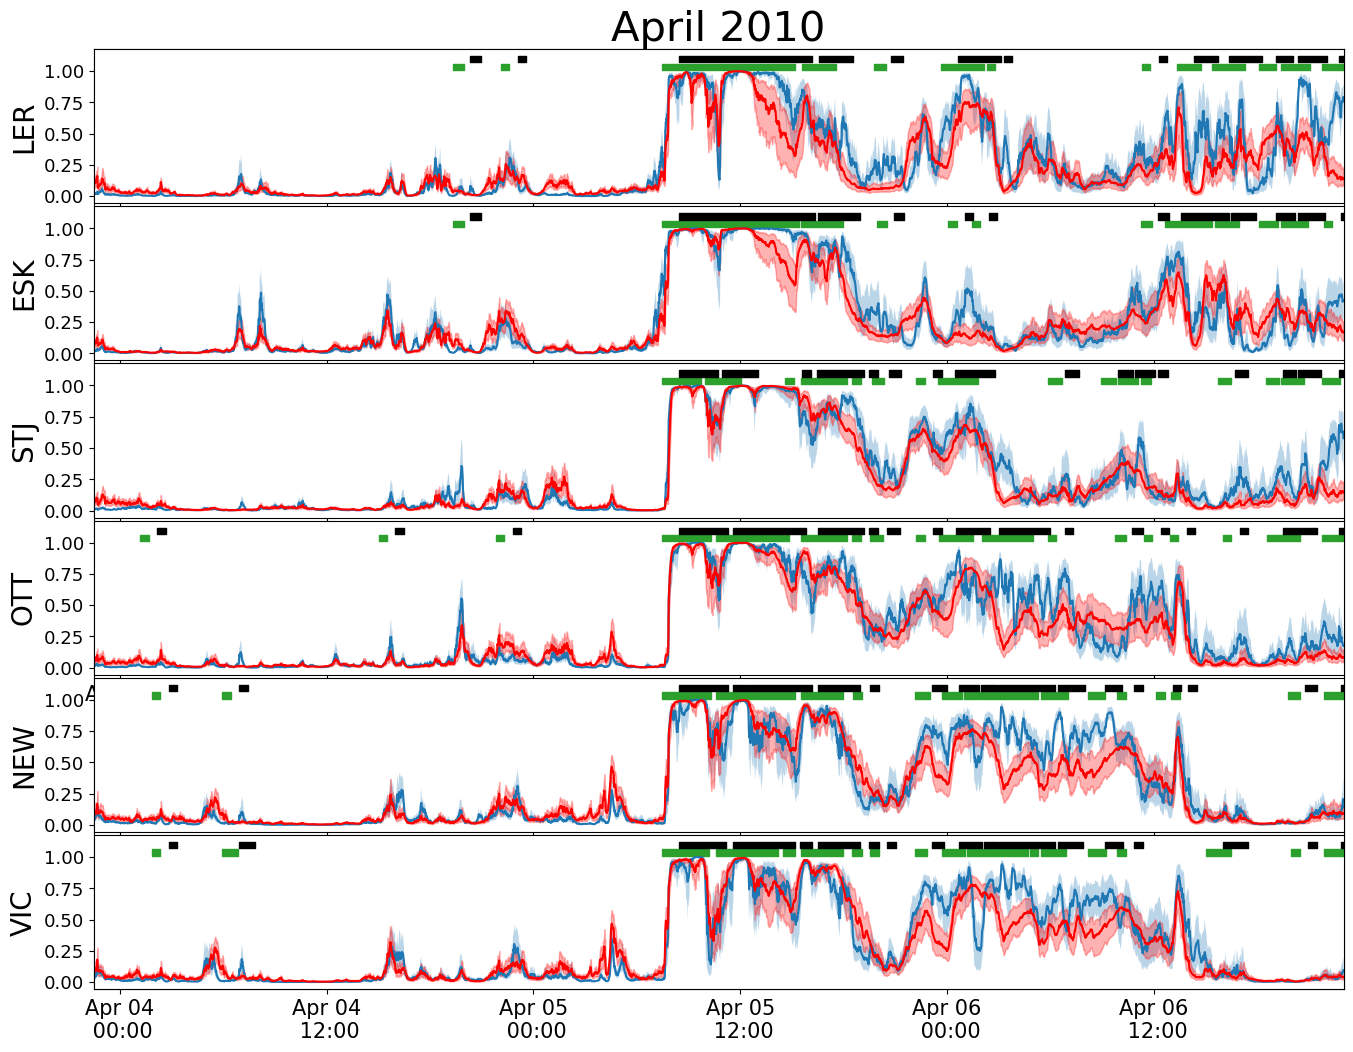
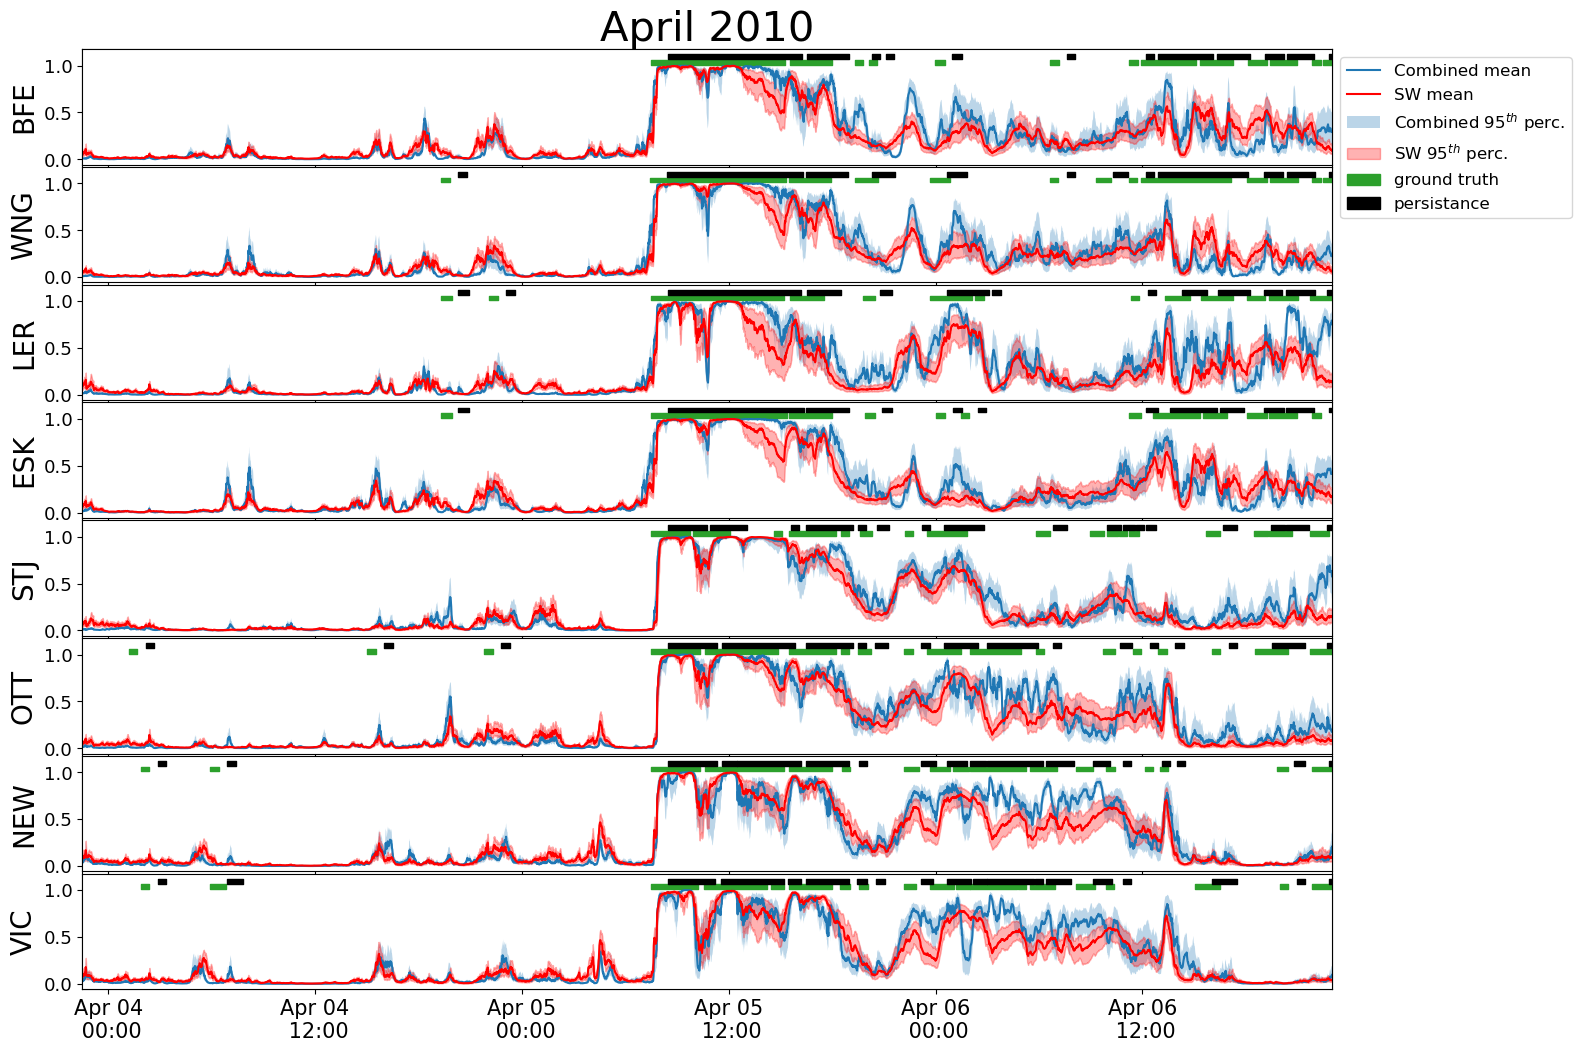
more changes to plots

diff --git a/plotting.py b/plotting.py
@@ -131,7 +131,7 @@ def plot_metrics(metrics_dict, stations, metrics=['HSS', 'AUC', 'RMSE'], sw=Fals
 		plt.subplots_adjust(bottom=0.1, top=0.9, left=0.1, right=0.9, hspace=0.03)			# trimming the whitespace in the subplots
 
 		# X = [5, 35, 65, 95, 125, 155, 185, 215]				# Used for labeling the x axis of the plots for each station.
-		X = [5, 35, 65, 95, 125, 155]				# Used for labeling the x axis of the plots for each station.
+		X = [5, 35, 65, 95, 125, 155, 185, 215]				# Used for labeling the x axis of the plots for each station.
 
 		'''subtracting and adding from the main X array above to
 			create slight speration in each of the storm metric results'''
@@ -245,7 +245,7 @@ def plot_total_metrics(metrics_dict, sw_metrics_dict, stations, metrics=['HSS', 
 	plt.subplots_adjust(bottom=0.1, top=0.9, left=0.1, right=0.9, hspace=0.03)			# trimming the whitespace in the subplots
 
 	# X = [5, 15, 25, 35, 45, 55, 65, 75]
-	X = [5, 10, 15, 20, 25, 30]
+	X = [5, 10, 15, 20, 25, 30, 35, 40]
 
 	x0 = [(num-1.5) for num in X]
 	x1 = [(num+1.5) for num in X]
@@ -469,8 +469,8 @@ def plot_model_outputs(results_dict, storm, splits, title):
 
 	# calling the prep_k_fold function for each threshold. Should probably find a better way to do this.
 	OTT = prep_k_fold_results(results_dict['OTT']['storm_{0}'.format(storm)]['raw_results'], splits)
-	# BFE = prep_k_fold_results(results_dict['BFE']['storm_{0}'.format(storm)]['raw_results'], splits)
-	# WNG = prep_k_fold_results(results_dict['WNG']['storm_{0}'.format(storm)]['raw_results'], splits)
+	BFE = prep_k_fold_results(results_dict['BFE']['storm_{0}'.format(storm)]['raw_results'], splits)
+	WNG = prep_k_fold_results(results_dict['WNG']['storm_{0}'.format(storm)]['raw_results'], splits)
 	STJ = prep_k_fold_results(results_dict['STJ']['storm_{0}'.format(storm)]['raw_results'], splits)
 	NEW = prep_k_fold_results(results_dict['NEW']['storm_{0}'.format(storm)]['raw_results'], splits)
 	VIC = prep_k_fold_results(results_dict['VIC']['storm_{0}'.format(storm)]['raw_results'], splits)
@@ -483,8 +483,8 @@ def plot_model_outputs(results_dict, storm, splits, title):
 	ESK_sw = prep_k_fold_results(results_dict['ESK']['storm_{0}'.format(storm)]['sw_results'], splits)
 	NEW_sw = prep_k_fold_results(results_dict['NEW']['storm_{0}'.format(storm)]['sw_results'], splits)
 	VIC_sw = prep_k_fold_results(results_dict['VIC']['storm_{0}'.format(storm)]['sw_results'], splits)
-	# BFE_sw = prep_k_fold_results(results_dict['BFE']['storm_{0}'.format(storm)]['sw_results'], splits)
-	# WNG_sw = prep_k_fold_results(results_dict['WNG']['storm_{0}'.format(storm)]['sw_results'], splits)
+	BFE_sw = prep_k_fold_results(results_dict['BFE']['storm_{0}'.format(storm)]['sw_results'], splits)
+	WNG_sw = prep_k_fold_results(results_dict['WNG']['storm_{0}'.format(storm)]['sw_results'], splits)
 
 
 
@@ -499,16 +499,16 @@ def plot_model_outputs(results_dict, storm, splits, title):
 							'pers_bottom':OTT['persistance']*1.07,
 							'pers_top':OTT['persistance']*1.12},
 							index=OTT.index)
-	# BFE_bar = pd.DataFrame({'BFE_bottom':BFE['cross']*1.01,
-	# 						'BFE_top':BFE['cross']*1.06,
-	# 						'pers_bottom':BFE['persistance']*1.07,
-	# 						'pers_top':BFE['persistance']*1.12},
-	# 						index=BFE.index)
-	# WNG_bar = pd.DataFrame({'WNG_bottom':WNG['cross']*1.01,
-	# 						'WNG_top':WNG['cross']*1.06,
-	# 						'pers_bottom':WNG['persistance']*1.07,
-	# 						'pers_top':WNG['persistance']*1.12},
-	# 						index=WNG.index)
+	BFE_bar = pd.DataFrame({'BFE_bottom':BFE['cross']*1.01,
+							'BFE_top':BFE['cross']*1.06,
+							'pers_bottom':BFE['persistance']*1.07,
+							'pers_top':BFE['persistance']*1.12},
+							index=BFE.index)
+	WNG_bar = pd.DataFrame({'WNG_bottom':WNG['cross']*1.01,
+							'WNG_top':WNG['cross']*1.06,
+							'pers_bottom':WNG['persistance']*1.07,
+							'pers_top':WNG['persistance']*1.12},
+							index=WNG.index)
 	STJ_bar = pd.DataFrame({'STJ_bottom':STJ['cross']*1.01,
 							'STJ_top':STJ['cross']*1.06,
 							'pers_bottom':STJ['persistance']*1.07,
@@ -537,8 +537,8 @@ def plot_model_outputs(results_dict, storm, splits, title):
 
 	# adds datetime index
 	OTT_bar.index=pd.to_datetime(OTT_bar.index)
-	# BFE_bar.index=pd.to_datetime(BFE_bar.index)
-	# WNG_bar.index=pd.to_datetime(WNG_bar.index)
+	BFE_bar.index=pd.to_datetime(BFE_bar.index)
+	WNG_bar.index=pd.to_datetime(WNG_bar.index)
 	STJ_bar.index=pd.to_datetime(STJ_bar.index)
 	NEW_bar.index=pd.to_datetime(NEW_bar.index)
 	VIC_bar.index=pd.to_datetime(VIC_bar.index)
@@ -555,53 +555,57 @@ def plot_model_outputs(results_dict, storm, splits, title):
 	plt.yticks([])
 	plt.title(title, fontsize=30)
 
-	# ax1 = fig.add_subplot(811)			# initalizing the subplot
+	ax1 = fig.add_subplot(811)			# initalizing the subplot
 
-	# # creates an array from the y_bar dataframe
-	# z1=np.array(BFE_bar['BFE_bottom'])
+	# creates an array from the y_bar dataframe
+	z1=np.array(BFE_bar['BFE_bottom'])
 
-	# # creates another array. These two arrays are compared to create the bar at the top of the plots.
-	# z2=np.array(BFE_bar['BFE_top'])
+	# creates another array. These two arrays are compared to create the bar at the top of the plots.
+	z2=np.array(BFE_bar['BFE_top'])
 
-	# # This repeats the above for the persistance maodel
-	# w1=np.array(BFE_bar['pers_bottom'])
-	# w2=np.array(BFE_bar['pers_top'])
+	# This repeats the above for the persistance maodel
+	w1=np.array(BFE_bar['pers_bottom'])
+	w2=np.array(BFE_bar['pers_top'])
 
 	# # plots the mean columns of the dataframe.
-	# ax1.plot(BFE['mean'], label='mean')
+	ax1.plot(BFE['mean'], label='Combined mean')
+	ax1.plot(BFE_sw['mean'], label='SW mean', color='red')
 
-	# # fills the area between the confidence interval with a lighter shade
-	# ax1.fill_between(BFE.index, BFE['bottom_perc'], BFE['top_perc'], alpha=0.2, label='$95^{th}$ percentile', color='indigo')
+	# fills the area between the confidence interval with a lighter shade
+	ax1.fill_between(BFE.index, BFE['bottom_perc'], BFE['top_perc'], alpha=0.3, label='Combined $95^{th}$ perc.')
+	ax1.fill_between(BFE_sw.index, BFE_sw['bottom_perc'], BFE_sw['top_perc'], alpha=0.3, label='SW $95^{th}$ perc.', color='red')
 
 	# # creates a bar at the top of the plot indicating the positve part of the binary real data
-	# ax1.fill_between(BFE_bar.index, BFE_bar['BFE_bottom'], BFE_bar['BFE_top'], where=z2>z1, alpha=1, label='ground truth', color='orange')
-	# ax1.fill_between(BFE_bar.index, BFE_bar['pers_bottom'], BFE_bar['pers_top'], where=w2>w1, alpha=1, color='black', label='persistance')
+	ax1.fill_between(BFE_bar.index, BFE_bar['BFE_bottom'], BFE_bar['BFE_top'], where=z2>z1, alpha=1, label='ground truth', color='tab:green')
+	ax1.fill_between(BFE_bar.index, BFE_bar['pers_bottom'], BFE_bar['pers_top'], where=w2>w1, alpha=1, color='black', label='persistance')
 
-	# # tightning the plot margins
-	# ax1.margins(x=0)
-	# ax1.set_ylabel('BFE', fontsize='20')
-	# plt.legend()
-	# plt.yticks(fontsize='13')
+	# tightning the plot margins
+	ax1.margins(x=0)
+	ax1.set_ylabel('BFE', fontsize='20')
+	plt.legend(bbox_to_anchor=(1,1), loc='upper left', fontsize=12)
+	plt.yticks(fontsize='13')
 
 	# # clears the x-axis labels. Won't be seen anyway as they will be covered by next subplot.
-	# ax1.set_xticklabels([], fontsize=0)
+	ax1.set_xticklabels([], fontsize=0)
 
 	# # Repeats the above for the other 7 stations
-	# ax2 = fig.add_subplot(812, sharex=ax1)
-	# z1=np.array(WNG_bar['WNG_bottom'])
-	# z2=np.array(WNG_bar['WNG_top'])
-	# w1=np.array(WNG_bar['pers_bottom'])
-	# w2=np.array(WNG_bar['pers_top'])
-	# ax2.plot(WNG.index, WNG['mean'])
-	# ax2.fill_between(WNG.index, WNG['bottom_perc'], WNG['top_perc'], alpha=0.2, color='indigo')
-	# ax2.fill_between(WNG_bar.index, WNG_bar['WNG_bottom'], WNG_bar['WNG_top'], where=z2>z1, alpha=1, color='orange')
-	# ax2.fill_between(WNG_bar.index, WNG_bar['pers_bottom'], WNG_bar['pers_top'], where=w2>w1, alpha=1, color='black')
-	# ax2.margins(x=0)
-	# ax2.set_ylabel('WNG', fontsize='20')
-	# plt.yticks(fontsize='13')
-	# ax2.set_xticklabels([], fontsize=0)
+	ax2 = fig.add_subplot(812, sharex=ax1)
+	z1=np.array(WNG_bar['WNG_bottom'])
+	z2=np.array(WNG_bar['WNG_top'])
+	w1=np.array(WNG_bar['pers_bottom'])
+	w2=np.array(WNG_bar['pers_top'])
+	ax2.plot(WNG.index, WNG['mean'])
+	ax2.plot(WNG_sw['mean'], label='sw mean', color='red')
+	ax2.fill_between(WNG.index, WNG['bottom_perc'], WNG['top_perc'], alpha=0.3)
+	ax2.fill_between(WNG_sw.index, WNG_sw['bottom_perc'], WNG_sw['top_perc'], alpha=0.3, label='SW only $95^{th}$ percentile', color='red')
+	ax2.fill_between(WNG_bar.index, WNG_bar['WNG_bottom'], WNG_bar['WNG_top'], where=z2>z1, alpha=1, color='tab:green')
+	ax2.fill_between(WNG_bar.index, WNG_bar['pers_bottom'], WNG_bar['pers_top'], where=w2>w1, alpha=1, color='black')
+	ax2.margins(x=0)
+	ax2.set_ylabel('WNG', fontsize='20')
+	plt.yticks(fontsize='13')
+	ax2.set_xticklabels([], fontsize=0)
 
-	ax3 = fig.add_subplot(611)
+	ax3 = fig.add_subplot(813, sharex=ax1)
 	z1=np.array(LER_bar['LER_bottom'])
 	z2=np.array(LER_bar['LER_top'])
 	w1=np.array(LER_bar['pers_bottom'])
@@ -617,7 +621,7 @@ def plot_model_outputs(results_dict, storm, splits, title):
 	plt.yticks(fontsize='13')
 	ax3.set_xticklabels([], fontsize=0)
 
-	ax4 = fig.add_subplot(612, sharex=ax3)
+	ax4 = fig.add_subplot(814, sharex=ax1)
 	z1=np.array(ESK_bar['ESK_bottom'])
 	z2=np.array(ESK_bar['ESK_top'])
 	w1=np.array(ESK_bar['pers_bottom'])
@@ -634,7 +638,7 @@ def plot_model_outputs(results_dict, storm, splits, title):
 	plt.xticks(fontsize=15)
 	ax4.set_xticklabels([], fontsize=0)
 
-	ax5 = fig.add_subplot(613, sharex=ax3)
+	ax5 = fig.add_subplot(815, sharex=ax1)
 	z1=np.array(STJ_bar['STJ_bottom'])
 	z2=np.array(STJ_bar['STJ_top'])
 	w1=np.array(STJ_bar['pers_bottom'])
@@ -650,7 +654,7 @@ def plot_model_outputs(results_dict, storm, splits, title):
 	plt.yticks(fontsize='13')
 	ax5.set_xticklabels([], fontsize=0)
 
-	ax6 = fig.add_subplot(614, sharex=ax3)
+	ax6 = fig.add_subplot(816, sharex=ax1)
 	z1=np.array(OTT_bar['OTT_bottom'])
 	z2=np.array(OTT_bar['OTT_top'])
 	w1=np.array(OTT_bar['pers_bottom'])
@@ -665,9 +669,9 @@ def plot_model_outputs(results_dict, storm, splits, title):
 	ax6.set_ylabel('OTT', fontsize='20')
 	plt.yticks(fontsize='13')
 	plt.xticks(fontsize=15)
-	# ax6.set_xticklabels([], fontsize=0)
+	ax6.set_xticklabels([], fontsize=0)
 
-	ax7 = fig.add_subplot(615, sharex=ax3)
+	ax7 = fig.add_subplot(817, sharex=ax1)
 	z1=np.array(NEW_bar['NEW_bottom'])
 	z2=np.array(NEW_bar['NEW_top'])
 	w1=np.array(NEW_bar['pers_bottom'])
@@ -684,7 +688,7 @@ def plot_model_outputs(results_dict, storm, splits, title):
 	plt.xticks(fontsize=5)
 	ax7.set_xticklabels([], fontsize=0)
 
-	ax8 = fig.add_subplot(616, sharex=ax3)
+	ax8 = fig.add_subplot(818, sharex=ax1)
 	z1=np.array(VIC_bar['VIC_bottom'])
 	z2=np.array(VIC_bar['VIC_top'])
 	w1=np.array(VIC_bar['pers_bottom'])

diff --git a/modeling.py b/modeling.py
@@ -18,6 +18,7 @@ import json
 import os
 import pickle
 import random
+import sys
 
 import numpy as np
 import pandas as pd
@@ -234,6 +235,8 @@ def main(station):
 			reset_keras(MODEL)
 		MODEL, early_stop = create_CNN_model(n_features=train_dict['X'].shape[2], loss='categorical_crossentropy', early_stop_patience=5)					# creating the model
 
+		print(MODEL.summary())
+		sys.exit()
 		# pulling the data and catagorizing it into the train-val pairs
 		xtrain = train_dict['X'][train_index]
 		xval =  train_dict['X'][val_index]
